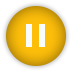
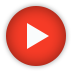
Commit before snipping

diff --git a/PythonApplication/main.py b/PythonApplication/main.py
@@ -22,8 +22,43 @@ from fpdf import FPDF
 from datetime import datetime
 from pathlib import Path
 
+def check_before_start(record_audio, record_video, ask_user_window):
+    if record_audio == 0 and record_video == 0:
+        pass
+    else:
+        ask_user_window.destroy()
+        record(record_audio, record_video)
 
-def record():
+def ask_user():
+
+    start["state"] = DISABLED
+    start["text"] = "Started"
+    start["width"] = 5
+
+    record_screen = IntVar()
+    record_audio = IntVar()
+
+    ask_user_window = Toplevel(root)
+    ask_user_window.geometry("220x145")
+    ask_user_window.title("SELECT")
+    ask_user_window_photo = PhotoImage(file="Images/choice.png")
+    ask_user_window.iconphoto(False, ask_user_window_photo)
+    ask_user_window.resizable(False, False)
+
+    ask_user_text = Label(ask_user_window, text="What do you want to record?")
+    ask_user_text_1 = Label(ask_user_window, text="You need to select one or more options")
+    video_checkbox = Checkbutton(ask_user_window, text="Meeting screen", variable=record_screen, onvalue=1, offvalue=0)
+    audio_checkbox = Checkbutton(ask_user_window, text="Audio", variable=record_audio, onvalue=1, offvalue=0)
+    ok_button = Button(ask_user_window, text="OK", width=25, command=lambda : check_before_start(record_audio.get(), record_screen.get(), ask_user_window))
+
+    ask_user_text.grid(row=0, column=0, sticky=W, pady=2)
+    ask_user_text_1.grid(row=1, column=0, sticky=W, pady=2)
+    video_checkbox.grid(row=2, column=0, sticky=W, pady=2)
+    audio_checkbox.grid(row=3, column=0, sticky=W, pady=2)
+    ok_button.grid(row=4, column=0)
+
+def record(record_audio, record_video):
+
     # Start button
     start["state"] = DISABLED
     start["text"] = "Started"
@@ -31,19 +66,18 @@ def record():
 
     # Pause, resume and stop button
     pause["state"] = "normal"
-    resume["state"] = "normal"
+    resume["state"] = DISABLED
     stop["state"] = "normal"
     dc.delete_dir()
     dc.check_dir()
-    t1 = Thread(target=rec.start_recording)
+
     t = time.localtime()
     current_time = time.strftime("%H:%M:%S", t)
     print("start time",current_time)
-    t1.start()
 
-    # rec.record_speech()
-    t2 = Thread(target=rec.record_speech)
-    t2.start()
+    print("Audio : {}, Video : {}".format(record_audio, record_video))
+
+    rec.init_recording(record_audio, record_video)
 
 
 def stop_record():
@@ -172,28 +206,26 @@ def main_logic():
     Label(root, image=name_img, bd=0).pack(pady=30)
 
     # Entry
-    file_name = StringVar()
-    entry = Entry(root, textvariable=file_name, width=18, font="arial 15")
-    entry.place(x=100, y=310)
+    #entry = Entry(root, textvariable=file_name, width=18, font="arial 15")
 
     # Threading
 
 
     # Buttons
     global start 
-    start = Button(root, text="Start", font="arial 22", bd=0, command=record)
+    start = Button(root, text="Start", font="arial 22", bd=0, command=ask_user)
     start.place(x=140, y=230)
 
     pause_btn = PhotoImage(file=os.path.join("Images","pause.png"))
     global pause 
     pause = Button(root, image=pause_btn, bd=0, bg="#fff",
-                state="disabled", command=rec.pause_recording)
+                state="disabled", command=lambda : rec.pause_recording(stop, resume, pause))
     pause.place(x=50, y=450)
 
     resume_btn = PhotoImage(file=os.path.join("Images","resume.png"))
     global resume 
     resume = Button(root, image=resume_btn, bd=0, bg="#fff",
-                    state="disabled", command=rec.resume_recording)
+                    state="disabled", command=lambda:rec.resume_recording(stop, resume, pause))
     resume.place(x=150, y=450)
 
     stop_btn = PhotoImage(file=os.path.join("Images","stop.png"))

diff --git a/PythonApplication/ApplicationLogic/recordingLogic.py b/PythonApplication/ApplicationLogic/recordingLogic.py
@@ -5,19 +5,40 @@ import time
 import speech as s
 import directoryCheckAndDelete as dd
 import os
+from threading import *
+from tkinter import *
 
-record = False
+record = True
+r_a = 0
+r_v = 0
+audio_num = 0
+video_num = 0
     
-def start_recording():
-    global record
+def init_recording(record_audio, record_video):
+
+    global r_a, r_v, audio_num, video_num, record
     record = True
-    i = 0
-    time.sleep(10)
+    r_a = record_audio
+    r_v = record_video
+    audio_num = 0
+    video_num = 0
+
+    if record_video == 1:
+        record_video_thread = Thread(target=start_recording)
+        record_video_thread.start()
+
+    if record_audio == 1:
+        record_audio_thread = Thread(target=record_speech)
+        record_audio_thread.start()
+
+def start_recording():
+    global record, video_num
+
     while record == True:
         with mss() as sct:
             filename='screenshot'
-            filename += str(i)
-            i += 1
+            filename += str(video_num)
+            video_num += 1
             t = time.localtime()
             current_time = time.strftime("%H:%M:%S", t)
             print(current_time)
@@ -30,11 +51,30 @@ def start_recording():
         except:
             continue
 
-def pause_recording():
-    pass
+def pause_recording(stop, resume, pause):
+    pause["state"] = DISABLED
+    resume["state"] = "normal"
+    stop["state"] = DISABLED
 
-def resume_recording():
-    pass
+    global record
+    record = False
+
+def resume_recording(stop, resume, pause):
+    resume["state"] = DISABLED
+    stop["state"] = "normal"
+    pause["state"] = "normal"
+
+    global record, r_a, r_v
+    record = True
+
+    if r_v == 1:
+        record_video_thread = Thread(target=start_recording)
+        record_video_thread.start()
+
+    if r_a == 1:
+        record_audio_thread = Thread(target=record_speech)
+        record_audio_thread.start()
+    
 
 def stop_recording():
     global record
@@ -42,10 +82,11 @@ def stop_recording():
     
 
 def record_speech():
-    time.sleep(10)
+
+    global record, audio_num
     while record == True:
-        s.rec()
-        # time.sleep(11)
+        s.rec(audio_num)
+        audio_num += 1
 
 
 def delete_dir():

diff --git a/PythonApplication/ApplicationLogic/speech.py b/PythonApplication/ApplicationLogic/speech.py
@@ -3,11 +3,8 @@ import soundfile as sf
 import time
 import os 
 
-i = 0
-
-def rec():
-    global i
-    filename='out'+str(i)+'.wav'
+def rec(audio_num):
+    filename='out'+str(audio_num)+'.wav'
     OUTPUT_FILE_NAME = os.path.join('Output','Audio',filename)
     SAMPLE_RATE = 48000              # [Hz]. sampling rate.
     RECORD_SEC = 10              # [sec]. duration recording audio.
@@ -22,4 +19,3 @@ def rec():
         print(OUTPUT_FILE_NAME)
         # change "data=data[:, 0]" to "data=data", if you would like to write audio as multiple-channels.
         sf.write(file=OUTPUT_FILE_NAME, data=data[:, 0], samplerate=SAMPLE_RATE)
-    i += 1

diff --git a/PythonApplication/ComparisonOfImages/image_compare.py b/PythonApplication/ComparisonOfImages/image_compare.py
@@ -13,9 +13,9 @@ def rms_diff(im1, im2):
     try:
         image_file1=Image.open(im1)
         image_file2=Image.open(im2)
-        box = (14,15,754,424)
-        cropped_Image_1 = image_file1.crop(box)
-        cropped_Image_2 = image_file2.crop(box)
+        #box = (14,15,754,424)
+        #cropped_Image_1 = image_file1.crop(box)
+        #cropped_Image_2 = image_file2.crop(box)
         h = ImageChops.difference(image_file1, image_file2).histogram()
 
         # calculate rms

diff --git a/PythonApplication/ApplicationLogic/progressBarLogic.py b/PythonApplication/ApplicationLogic/progressBarLogic.py
@@ -18,8 +18,10 @@ speechData = []
 
 def progress_bar_logic(progress, p_bar, percent):
     global speechData
-    global data
+    global data, i
     i = 0
+    data = []
+    speechData = []
     t_files = fcl.no_of_files()
     update_progress_bar(p_bar, percent, t_files)
 
